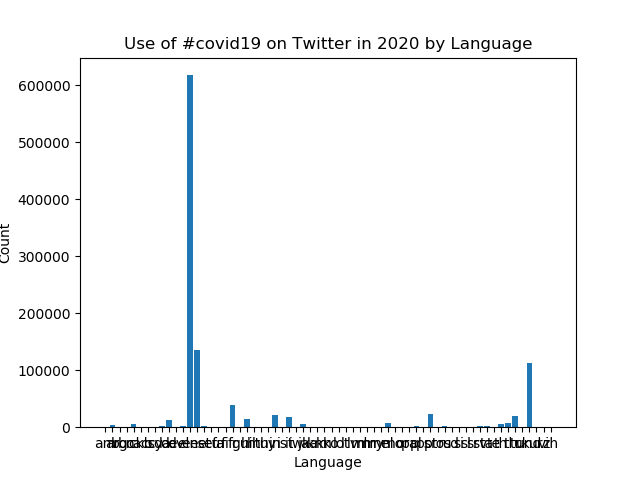
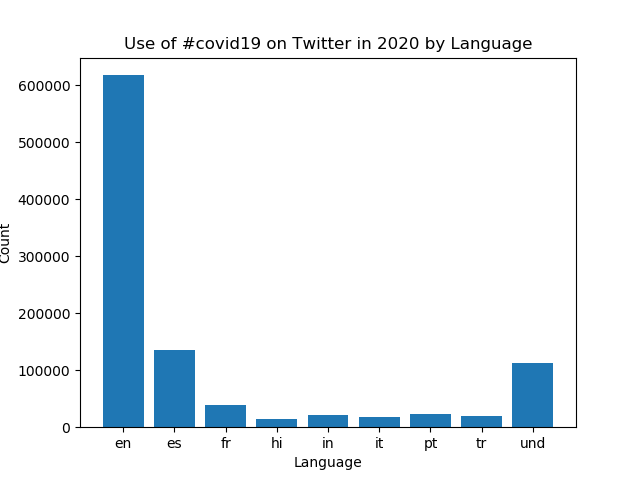
mpl attempt 2

Changed region(s): [[0.1562, 0.1562, 0.875, 0.9375]]

diff --git a/src/visualize.py b/src/visualize.py
@@ -31,8 +31,8 @@ for k,v in items:
     print(k,':',v)
 
 # create lists of keys and values for the bar graph
-keys = [item[0] for item in items]
-values = [item[1] for item in items]
+keys = [item[0] for item in items][:9]
+values = [item[1] for item in items][:9]
 
 # plot the bar graph
 plt.bar(keys, values)
